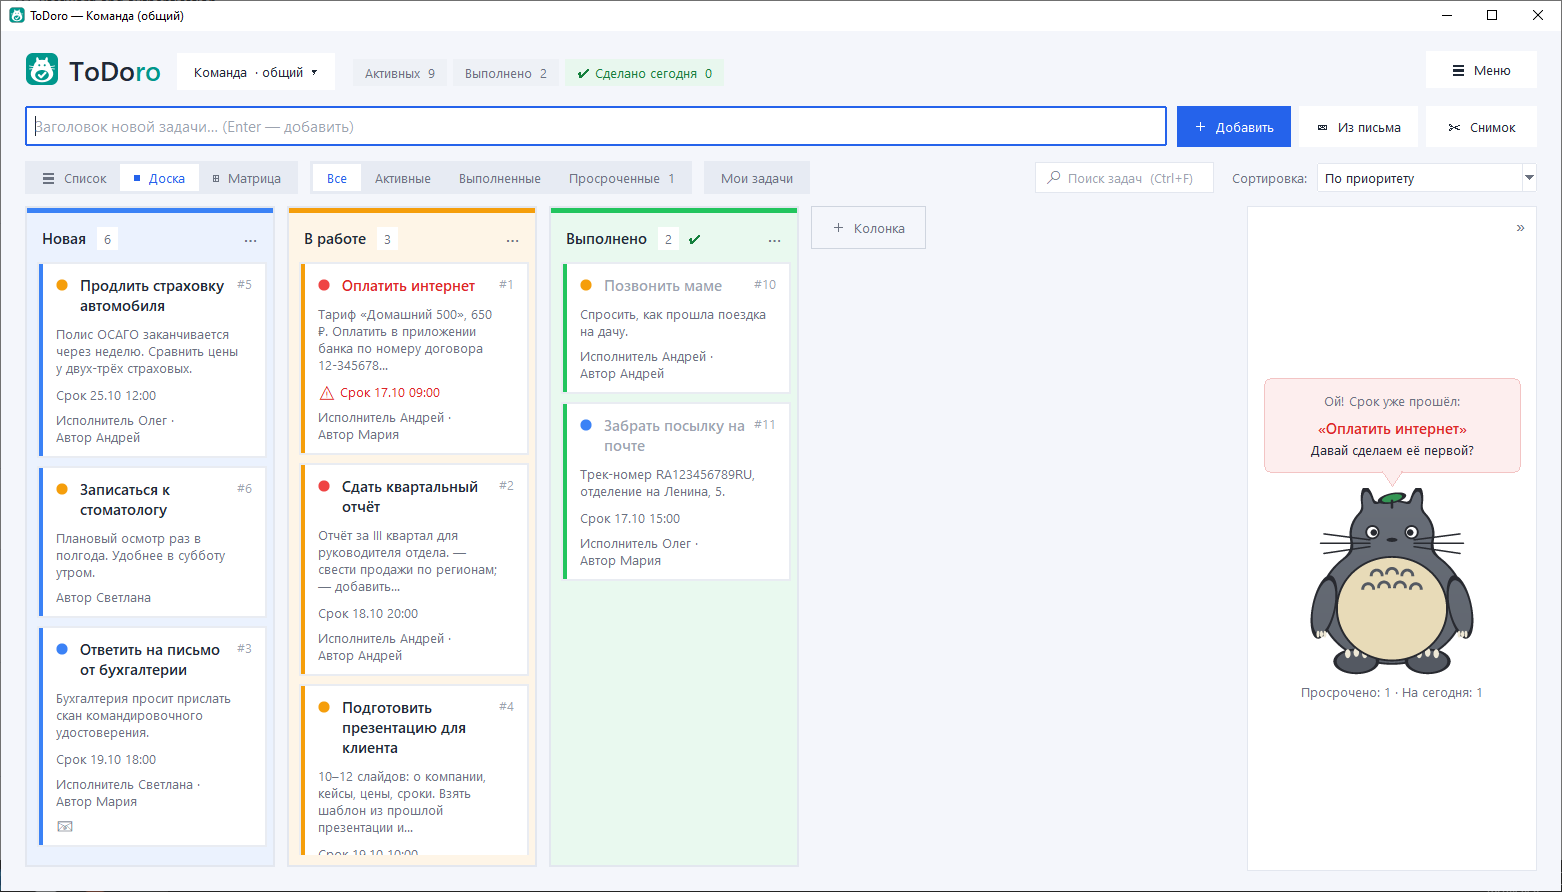
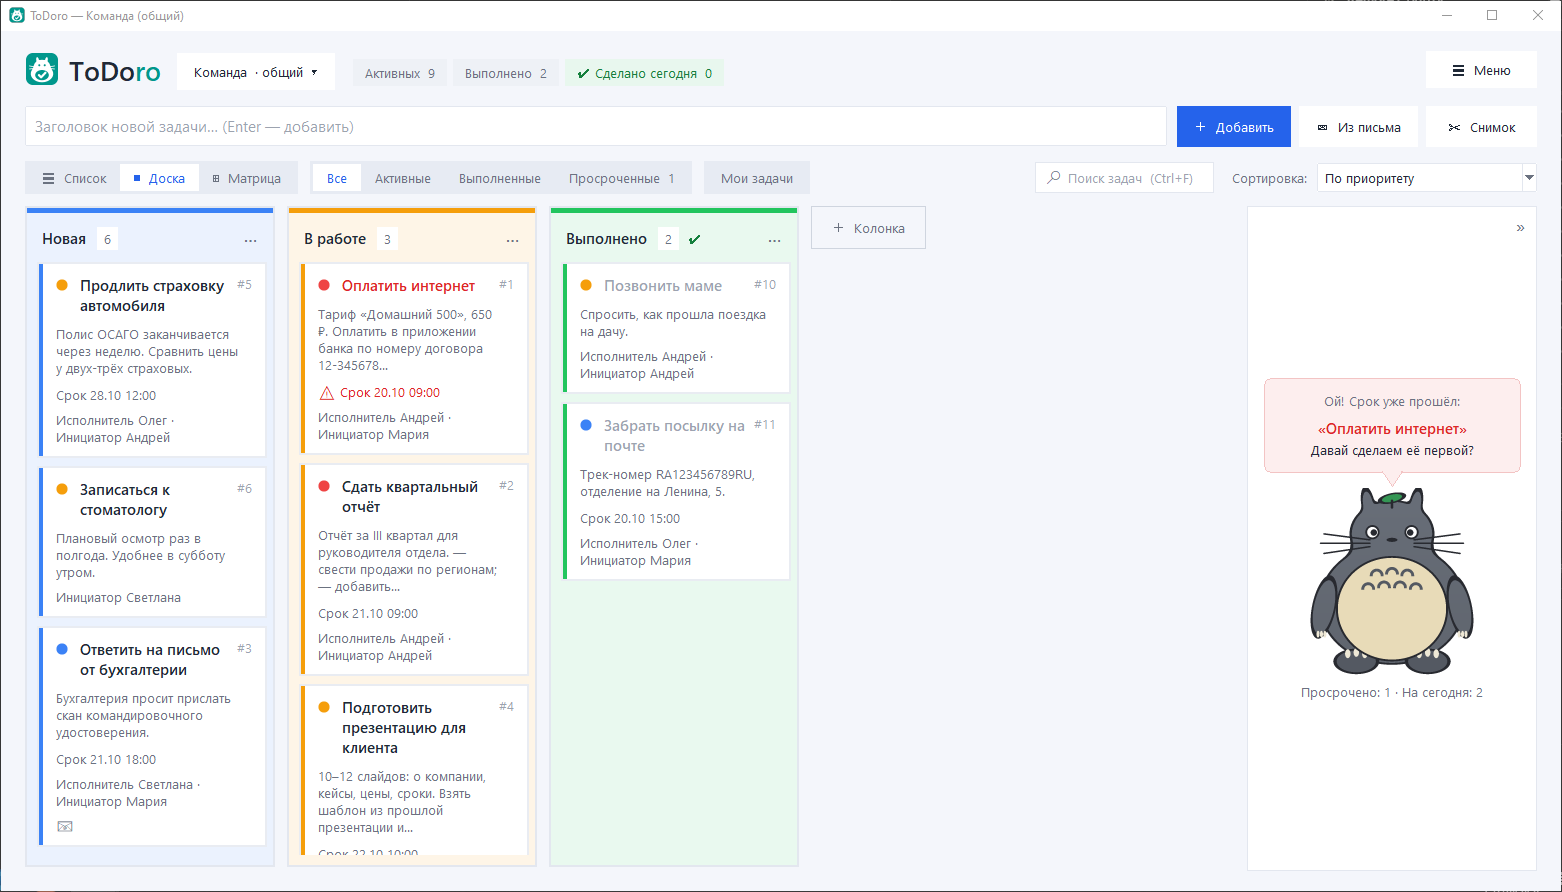
Версия 2.21

diff --git a/todoro.py b/todoro.py
@@ -36,7 +36,7 @@ from examples import make_examples
 from help_text import HELP
 
 APP_NAME = "ToDoro"  # ToDo + Totoro
-APP_VERSION = "2.20"  # номер версии — меняется здесь (установщик берёт его отсюда)
+APP_VERSION = "2.21"  # номер версии — меняется здесь (установщик берёт его отсюда)
 APP_YEAR = 2026
 COPYRIGHT_HOLDER = "Machinist"  # автор — имя меняется здесь и в файле LICENSE
 COPYRIGHT = f"© {APP_YEAR} {COPYRIGHT_HOLDER}"

diff --git a/RELEASE_NOTES.md b/RELEASE_NOTES.md
@@ -3,15 +3,23 @@
 Здесь записано, что менялось от версии к версии. Новые записи — сверху.
 Скачать установщик любой версии: https://github.com/machinist-soft/ToDoro/releases
 
-## Не выпущено
+## 2.21 — 21.10.2026
+
+### Новое
+
+- У задачи можно указать «Бизнес-единицу» (необязательно) — значение выбирается из справочника. Справочник ведётся в «☰ Меню → Бизнес-единицы»: добавить, переименовать, удалить, поменять порядок, взять из другого списка; у каждого списка свой, в общем списке — общий для команды. Бизнес-единица видна в столбце списка (по нему можно сортировать), в карточке, в поиске, в письме по задаче, в CSV и, по желанию, на карточках доски.
+- В общих списках у задачи есть «Инициатор» — от кого задача. Сначала это автор, но в форме задачи его можно поменять: выбрать участника или вписать любое имя. Столбец «Автор» в списке, строка в карточке и на доске теперь называются «Инициатор»; в выгрузке CSV — оба столбца, «Автор» и «Инициатор».
+
+### Улучшения
+
+- Поле «Описание» в панели изменения задачи растягивается на всё свободное место до кнопок «Сохранить / Отмена» и подстраивается под размер окна; в невысоком окне остаётся прежних 5 строк.
+- «Проверить обновления…» в меню сразу показывает окошко «Проверяю, есть ли новая версия…» с кнопкой «Отмена» — раньше в медленной сети казалось, что программа зависла.
+- Скачивание обновления можно прервать кнопкой «Отмена» или закрыть окно крестиком; если файл полторы минуты не приходит, скачивание останавливается само с понятным сообщением.
+
+### Исправления
 
 - Проверка обновлений работает в сетях, где защищённые соединения проверяет фильтр: больше нет ошибки «CERTIFICATE_VERIFY_FAILED … Missing Authority Key Identifier»; ответа GitHub ToDoro теперь ждёт дольше.
-- «Проверить обновления…» в меню сразу показывает окошко «Проверяю, есть ли новая версия…» с кнопкой «Отмена» — раньше в медленной сети казалось, что программа зависла.
-- Скачивание обновления можно прервать кнопкой «Отмена» или закрыть окно крестиком; если файл полторы минуты не приходит, скачивание останавливается само с понятным сообщением — окно больше не «зависает».
-- Поле «Описание» в панели изменения задачи растягивается на всё свободное место до кнопок «Сохранить / Отмена» и подстраивается под размер окна; в невысоком окне остаётся прежних 5 строк.
 - Открытый выпадающий список (напоминание, статус, исполнитель, время и другие), календарь срока и меню сами закрываются, если переключиться в другую программу, — больше не остаются висеть поверх чужих окон.
-- В общих списках у задачи есть «Инициатор» — от кого задача. Сначала это автор, но в форме задачи его можно поменять: выбрать участника или вписать любое имя. Столбец «Автор» в списке, строка в карточке и на доске теперь называются «Инициатор»; в выгрузке CSV — оба столбца, «Автор» и «Инициатор».
-- У задачи можно указать «Бизнес-единицу» (необязательно) — значение выбирается из справочника. Справочник ведётся в «☰ Меню → Бизнес-единицы»: добавить, переименовать, удалить, поменять порядок, взять из другого списка; у каждого списка свой, в общем списке — общий для команды. Бизнес-единица видна в столбце списка (по нему можно сортировать), в карточке, в поиске, в письме по задаче, в CSV и, по желанию, на карточках доски.
 
 ## 2.20 — 19.10.2026
 

diff --git a/README.md b/README.md
@@ -8,7 +8,7 @@
 [Что нового / What's new](RELEASE_NOTES.md) ·
 [Сообщить об ошибке / Report a bug](https://github.com/machinist-soft/ToDoro/issues/new?template=bug_report.yml)
 
-![Общий список команды: исполнители, инициаторы и Тоторо-помощник / Team list with assignees, initiators and the Totoro helper](docs/screenshots/list.png)
+![Общий список команды: исполнители, инициаторы, бизнес-единицы и Тоторо-помощник / Team list with assignees, initiators, business units and the Totoro helper](docs/screenshots/list.png)
 
 > **Фан-проект / Fan project**
 >
